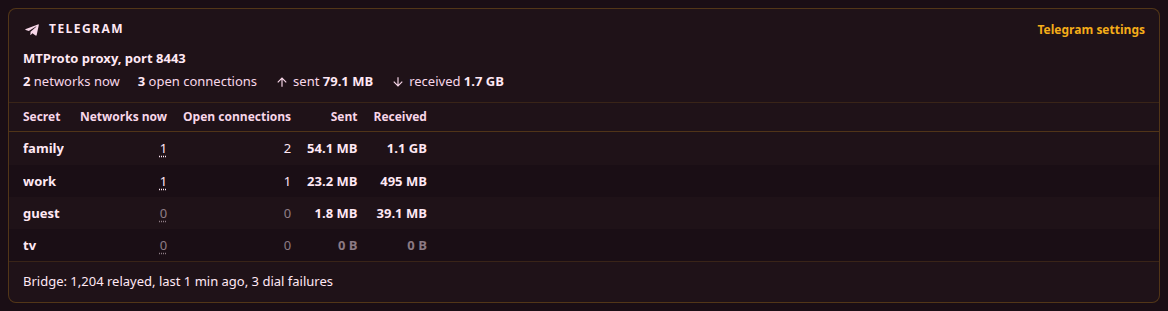
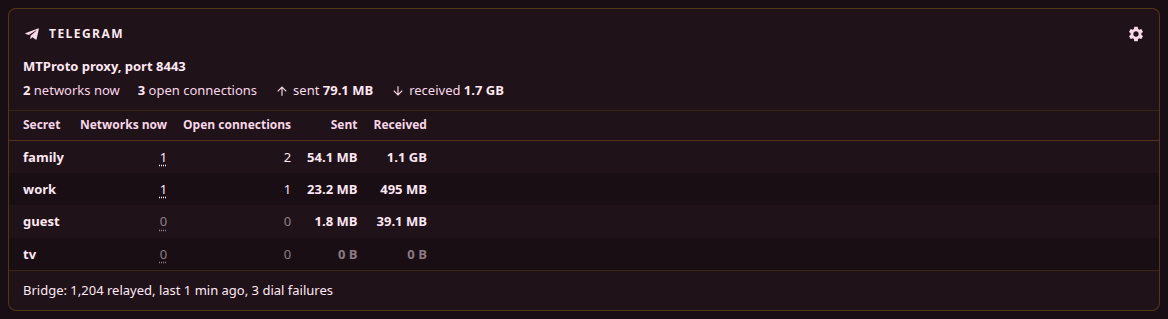
feat: update changelog and dashboard documentation; add settings button to PanelCard and Telegram panel

diff --git a/src/http/ui/src/components/dashboard/panels/PanelCard.tsx b/src/http/ui/src/components/dashboard/panels/PanelCard.tsx
@@ -1,8 +1,9 @@
 import { useEffect, useId, useState, type ReactNode } from "react";
-import { Box, Typography } from "@mui/material";
+import { Box, IconButton, Tooltip, Typography } from "@mui/material";
+import { Link as RouterLink } from "react-router";
 import { useTranslation } from "react-i18next";
 import { colors, radiusPx } from "@design";
-import { HistoryIcon } from "@b4.icons";
+import { HistoryIcon, SettingsIcon } from "@b4.icons";
 import { formatClock } from "@common/charts";
 import { useMetrics } from "@/stores/useMetrics";
 import { PANEL_PAD_X, emptySx, tagSx } from "./styles";
@@ -41,11 +42,43 @@ function StaleBadge({ since }: { since: number }) {
   );
 }
 
+export interface PanelSettings {
+  to: string;
+  label: string;
+}
+
+function SettingsButton({ to, label }: PanelSettings) {
+  return (
+    <Tooltip title={label}>
+      <IconButton
+        component={RouterLink}
+        to={to}
+        aria-label={label}
+        size="small"
+        sx={{
+          p: "4px",
+          mr: "-4px",
+          color: colors.text.secondary,
+          "& svg": { fontSize: 18 },
+          "&:hover": { color: colors.secondary, bgcolor: colors.accent.secondaryHover },
+          "&:focus-visible": {
+            outline: `2px solid ${colors.border.strong}`,
+            outlineOffset: "2px",
+          },
+        }}
+      >
+        <SettingsIcon />
+      </IconButton>
+    </Tooltip>
+  );
+}
+
 interface PanelCardProps {
   title: string;
   subtitle?: ReactNode;
   icon?: ReactNode;
   actions?: ReactNode;
+  settings?: PanelSettings;
   footer?: ReactNode;
   live?: boolean;
   waiting?: boolean;
@@ -57,6 +90,7 @@ export function PanelCard({
   subtitle,
   icon,
   actions,
+  settings,
   footer,
   live = true,
   waiting = false,
@@ -148,7 +182,7 @@ export function PanelCard({
             )}
           </Box>
         </Box>
-        {(staleSince > 0 || actions) && (
+        {(staleSince > 0 || actions || settings) && (
           <Box
             sx={{
               display: "flex",
@@ -161,6 +195,7 @@ export function PanelCard({
           >
             {staleSince > 0 && <StaleBadge since={staleSince} />}
             {actions}
+            {settings && <SettingsButton {...settings} />}
           </Box>
         )}
       </Box>

diff --git a/src/http/ui/src/components/dashboard/panels/Telegram.tsx b/src/http/ui/src/components/dashboard/panels/Telegram.tsx
@@ -1,6 +1,5 @@
 import { memo, useMemo, type ReactNode } from "react";
-import { Box, Link, Tooltip } from "@mui/material";
-import { Link as RouterLink } from "react-router";
+import { Box, Tooltip } from "@mui/material";
 import { Trans, useTranslation } from "react-i18next";
 import { colors, fonts, radiusPx } from "@design";
 import { ReceivedIcon, SentIcon, TelegramIcon, WarningIcon } from "@b4.icons";
@@ -13,7 +12,7 @@ import { useMetricsFrame } from "@/stores/useMetrics";
 import { useAgoText } from "./Ago";
 import { PanelCard } from "./PanelCard";
 import { parseTimestamp } from "./format";
-import { PANEL_PAD_X, emptySx, linkSx, numeric } from "./styles";
+import { PANEL_PAD_X, emptySx, numeric } from "./styles";
 
 export function bridgeWorking(status: TelegramBridgeStatus): boolean {
   return (
@@ -370,11 +369,7 @@ function TelegramPanelView() {
       title={t("dashboard.telegram.title")}
       icon={<TelegramIcon />}
       waiting={!hasFrame}
-      actions={
-        <Link component={RouterLink} underline="hover" to="/settings/mtproto" sx={linkSx}>
-          {t("dashboard.telegram.settings")}
-        </Link>
-      }
+      settings={{ to: "/settings/mtproto", label: t("dashboard.telegram.settings") }}
     >
       {proxyOn && mtproto && <MTProtoSection stats={mtproto} ends={!bridgeShown} />}
       {bridgeShown && (

diff --git a/src/http/ui/src/barrels/icons.ts b/src/http/ui/src/barrels/icons.ts
@@ -108,4 +108,5 @@ export {
   AccountTree as AsnIcon,
   ArrowUpward as SentIcon,
   ArrowDownward as ReceivedIcon,
+  Settings as SettingsIcon,
 } from "@mui/icons-material";

diff --git a/changelog_ru.md b/changelog_ru.md
@@ -2,11 +2,8 @@
 
 ## [1.86.0] - 2026-10-09
 
-- ДОБАВЛЕНО: **Панели «Популярные домены» и «Популярные адреса» на дашборде показывают домены, а также адреса соединений без имени домена, с наибольшим числом соединений и сеты, которые с ними совпали, а у записи вне сетов есть кнопка «+», чтобы добавить её в сет** - «+» открывает окно страницы Трафик для добавления домена или адреса, адрес показывает свой ASN, если этот ASN уже есть у b4, «Сбросить счётчики» очищает оба списка, а `/api/metrics` отдаёт их в полях `top_domains` и `top_addresses`.
 - ИЗМЕНЕНО: **Устройство на панели «Блокировки» показывает под именем свой IP-адрес, а MAC-адрес - в подсказке** - раньше эту строку занимал MAC-адрес.
-- ИЗМЕНЕНО: **Панель Telegram на дашборде выводит секреты MTProto таблицей: объём трафика жирным, нули бледнее, строки с чередующейся заливкой** - столбцы стоят рядом с именем секрета и на широком экране, где раньше числа каждого секрета уходили к дальнему краю.
 - ИЗМЕНЕНО: **Дашборд раскладывает панели рядами, которые всегда занимают всю ширину, а панели ряда одной высоты, по самой высокой, тогда как раньше панели укладывались в свободные места, оставляли дыры и сдвигались вбок, когда списки росли** - в режиме «Настроить» граница между двумя панелями и кнопки минус и плюс переносят ширину между соседями, панель, брошенная на другую, встаёт в её ряд, брошенная между рядами получает отдельный ряд, а кнопка ряда делит или объединяет ряды.
-- ИСПРАВЛЕНО: **В русском интерфейсе добавление домена в сет со страницы Трафик сообщало о результате по-английски** - у сообщения не было перевода.
 
 ## [1.85.1] - 2026-10-08
 

diff --git a/docs/i18n/ru/docusaurus-plugin-content-docs/current/dashboard.md b/docs/i18n/ru/docusaurus-plugin-content-docs/current/dashboard.md
@@ -261,7 +261,7 @@ TLS-соединение называет свой сервер в ClientHello, 
 
 ![Telegram](/img/dashboard/ru/20261009120030.png)
 
-Панель видна, пока включён [MTProto-прокси](telegram/mtproto-proxy.md) или [Telegram через WebSocket](telegram/websocket-bridge.md). **Настройки Telegram** открывают раздел Настройки, Telegram.
+Панель видна, пока включён [MTProto-прокси](telegram/mtproto-proxy.md) или [Telegram через WebSocket](telegram/websocket-bridge.md). Кнопка с шестерёнкой в заголовке открывает раздел Настройки, Telegram.
 
 Для MTProto-прокси первая строка даёт его порт, число сетей клиентов, которые пользуются им сейчас, открытые подключения и объём отправленного и полученного. Таблица ниже повторяет эти числа по секретам, по строке на секрет с чередующейся заливкой: **Сетей сейчас**, **Открытых подключений**, **Отправлено** и **Получено**. Сначала идут строки с открытыми подключениями, затем с наибольшим объёмом данных. Подсказка над числом сетей перечисляет адреса. Устройства с одним подключением к интернету считаются одной сетью. Нули выводятся бледнее остальных чисел. На узкой панели числа строки идут под именем секрета, каждое со своей подписью. Данные сессии добавляются, когда сессия заканчивается, поэтому долгая сессия показывает свой трафик только после закрытия. Числа хранятся в памяти с запуска прокси, и [сброс счётчиков](#сброс-счётчиков) их не трогает.
 

diff --git a/changelog.md b/changelog.md
@@ -2,11 +2,8 @@
 
 ## [1.86.0] - 2026-10-09
 
-- ADDED: **The dashboard's Top domains and Top addresses panels list the domains, and the addresses of connections without a domain name, with the most connections and the sets that matched them, with a + button on an entry no set matched to add it to one** - the + opens the Traffic page's dialog for adding a domain or an address, an address shows its ASN when b4 already holds that ASN, Reset counters clears both lists, and `/api/metrics` carries them as `top_domains` and `top_addresses`.
 - CHANGED: **A device on the dashboard's Blocked panel shows its IP address under its name, with the MAC address on hover** - the MAC address used to take that line.
-- CHANGED: **The dashboard's Telegram panel lists the MTProto secrets as a table, with the traffic figures in bold, zeros dimmed and alternating row shading** - the columns stay next to the secret's name on wide screens, where each secret's figures used to sit at the far edge.
 - CHANGED: **The dashboard arranges its panels in rows that always fill the full width, each panel as tall as the tallest one in its row, where panels used to be packed into free spots, which left holes and moved them sideways as lists grew** - in Customize, the border between two panels and the minus and plus buttons move width between neighbours, a panel dropped on another joins its row, one dropped between rows gets a row of its own, and the row button splits or joins rows.
-- FIXED: **In the Russian interface, adding a domain to a set from the Traffic page reported the result in English** - the message had no translation.
 
 ## [1.85.1] - 2026-10-08
 

diff --git a/docs/docs/dashboard.md b/docs/docs/dashboard.md
@@ -259,7 +259,7 @@ The counts cover what b4 blocked itself. Once the addresses of a blocked site ar
 
 ![Telegram](/img/dashboard/20261009120030.png)
 
-The panel is on the page while the [MTProto proxy](telegram/mtproto-proxy.md) or [Telegram over WebSocket](telegram/websocket-bridge.md) is on. **Telegram settings** opens Settings, Telegram.
+The panel is on the page while the [MTProto proxy](telegram/mtproto-proxy.md) or [Telegram over WebSocket](telegram/websocket-bridge.md) is on. The gear button in the header opens Settings, Telegram.
 
 For the MTProto proxy the first line gives its port, the client networks using it right now, the open connections and the data sent and received. A table below repeats these figures per secret, one row each with alternating shading: **Networks now**, **Open connections**, **Sent** and **Received**. Rows with open connections come first, then the ones with the most data. Hovering a network count lists the addresses. Devices that share one internet connection count as one network. A zero is drawn dimmer than other figures. On a narrow panel each row stacks its figures under the secret's name, each with its label. The data of a session is added when the session ends, so a long session shows its traffic only after it closes. The figures are held in memory since the proxy started, and [Reset counters](#reset-counters) leaves them alone.
 
